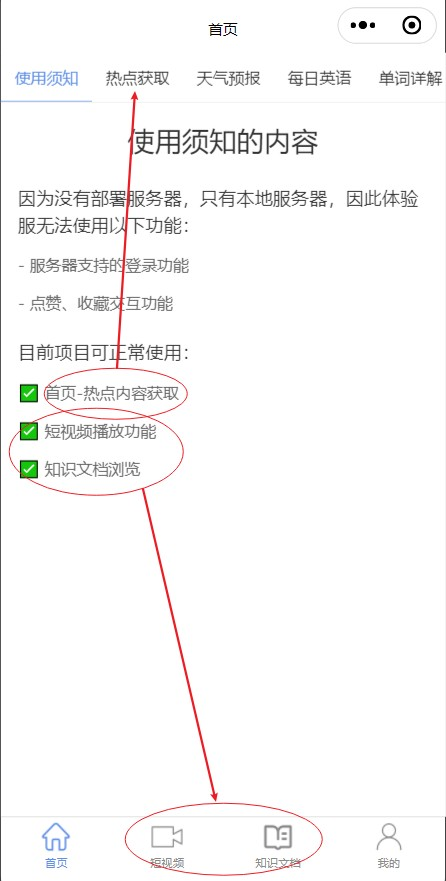
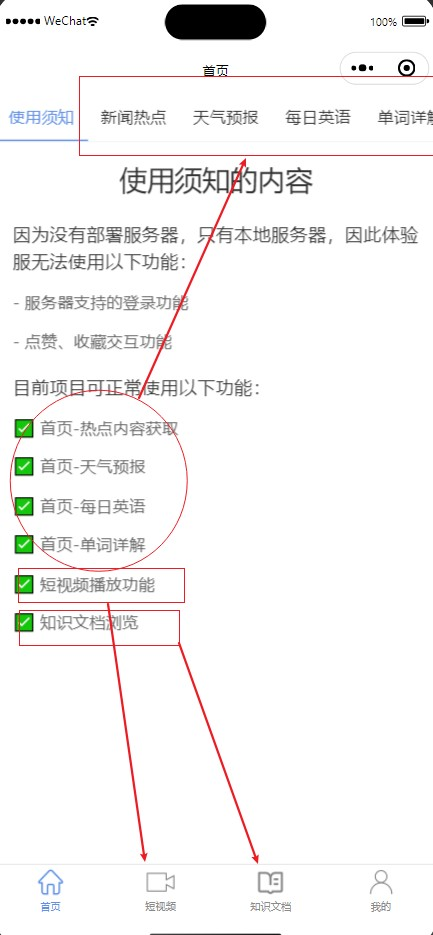
更新使用须知，处理未登录点赞收藏卡在加载环节的bug

diff --git a/src/pages/shortvideo/shortvideo.jsx b/src/pages/shortvideo/shortvideo.jsx
@@ -91,27 +91,36 @@ const ShortVideo = forwardRef(({ videoStore }, ref) => {
 
     async function updateLikes(signal) {
         if (!likeThrottle) {
-            setLikeThrottle(true)
-            const res = await videoStore.updateLikes(signal)
-            if (res.data.code === 200) {
-                if (signal === 1) {
-                    setLikeOpened(true)
-                    setTimeout(() => {
-                        setLikeOpened(false)
-                    }, 1000)
+            // 本来不想做token处理，但是体验服点赞收藏会出现一直加载的问题，因此添加token处理
+            if (Taro.getStorageSync('token')) {
+                setLikeThrottle(true)
+                const res = await videoStore.updateLikes(signal)
+                if (res.data.code === 200) {
+                    if (signal === 1) {
+                        setLikeOpened(true)
+                        setTimeout(() => {
+                            setLikeOpened(false)
+                        }, 1000)
+                    } else {
+                        setUnlikeOpened(true)
+                        setTimeout(() => {
+                            setUnlikeOpened(false)
+                        }, 1000)
+                    }
                 } else {
-                    setUnlikeOpened(true)
-                    setTimeout(() => {
-                        setUnlikeOpened(false)
-                    }, 1000)
+                    Taro.atMessage({
+                        message: res.data.msg,
+                        type: 'info'
+                    })
                 }
+                setLikeThrottle(false);
             } else {
                 Taro.atMessage({
-                    message: res.data.msg,
+                    message: '请先登录',
                     type: 'info'
                 })
             }
-            setLikeThrottle(false);
+
         } else {
             Taro.atMessage({
                 message: '操作过快，请稍后重试',
@@ -123,27 +132,35 @@ const ShortVideo = forwardRef(({ videoStore }, ref) => {
 
     async function updateCollections(signal) {
         if (!collectThrottle) {
-            setCollectThrottle(true)
-            const res = await videoStore.updateCollections(signal)
-            if (res.data.code === 200) {
-                if (signal === 1) {
-                    setCollectOpened(true)
-                    setTimeout(() => {
-                        setCollectOpened(false)
-                    }, 1000)
+            if (Taro.getStorageSync('token')) {
+                setCollectThrottle(true)
+                const res = await videoStore.updateCollections(signal)
+                if (res.data.code === 200) {
+                    if (signal === 1) {
+                        setCollectOpened(true)
+                        setTimeout(() => {
+                            setCollectOpened(false)
+                        }, 1000)
+                    } else {
+                        setUncollectOpened(true)
+                        setTimeout(() => {
+                            setUncollectOpened(false)
+                        }, 1000)
+                    }
                 } else {
-                    setUncollectOpened(true)
-                    setTimeout(() => {
-                        setUncollectOpened(false)
-                    }, 1000)
+                    Taro.atMessage({
+                        message: res.data.msg,
+                        type: 'info'
+                    })
                 }
+                setCollectThrottle(false)
             } else {
                 Taro.atMessage({
-                    message: res.data.msg,
+                    message: '请先登录',
                     type: 'info'
                 })
             }
-            setCollectThrottle(false)
+
         } else {
             Taro.atMessage({
                 message: '操作过快，请稍后重试',

diff --git a/src/pages/index/index.jsx b/src/pages/index/index.jsx
@@ -162,7 +162,7 @@ const Index = forwardRef(({ counterStore, hotStore, videoStore, weatherStore, En
   }
 
   // 搜索对应单词
-  async function onActionClickWord(){
+  async function onActionClickWord() {
     console.log('搜索单词')
     const res = await WordStore.checkWord(word);
     if (res !== true) {
@@ -385,8 +385,8 @@ const Index = forwardRef(({ counterStore, hotStore, videoStore, weatherStore, En
             />
             {
               WordStore.word
-                ?<EnglishWeb EnglishStore={WordStore} word={WordStore.word}></EnglishWeb>
-                :null
+                ? <EnglishWeb EnglishStore={WordStore} word={WordStore.word}></EnglishWeb>
+                : null
             }
           </View>
         </AtTabsPane>
@@ -413,6 +413,6 @@ const Index = forwardRef(({ counterStore, hotStore, videoStore, weatherStore, En
   )
 })
 
-export default inject('counterStore', 'hotStore', 'videoStore', 'weatherStore', 'EnglishStore','WordStore')(observer(Index))
+export default inject('counterStore', 'hotStore', 'videoStore', 'weatherStore', 'EnglishStore', 'WordStore')(observer(Index))
 // observable 是用来创建 / 转换状态数据的，不能直接包装组件,将普通对象、数组或类转换为可观察对象。
 // observer 是 MobX 提供的高阶组件，用于将 React 组件转换为响应式组件。

diff --git a/src/service/httpService.js b/src/service/httpService.js
@@ -53,7 +53,8 @@ export default {
             },
             success: function (res) {
                 // console.log(res.data)
-            }
+            },
+            timeout: 5000
         })
     },
     get(option) {
